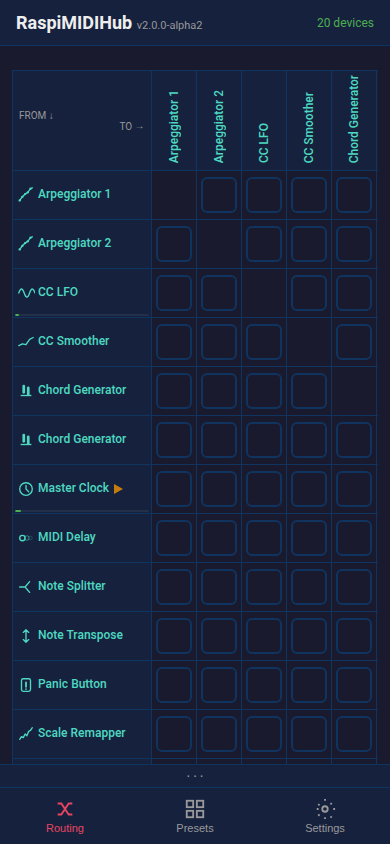
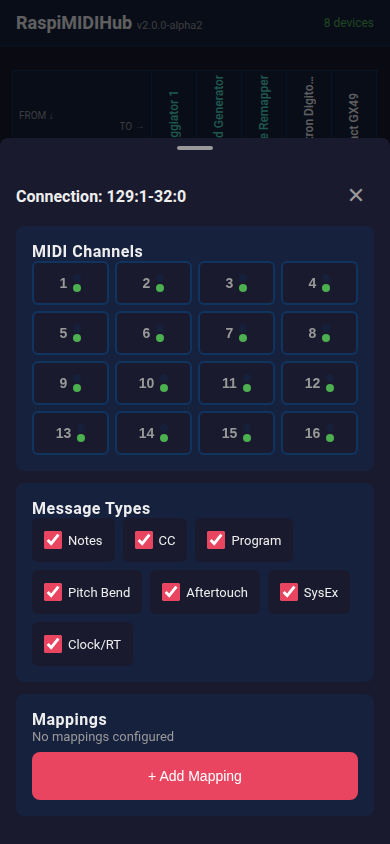
Refresh screenshots, update FSD with plugin system
- Filter panel + mapping screenshots working (use div.cb.on selector)
- Routing screenshot shows real stage setup
- Removed obsolete 03-devices.png
- FSD v2.1: added plugin system section (4.9), PWA section (4.10),
  updated architecture diagram, API endpoints, matrix features,
  presets, removed "no plugin system" non-goal

diff --git a/docs/FSD.md b/docs/FSD.md
@@ -1,8 +1,8 @@
 # RaspiMIDIHub — Functional Specification Document
 
-**Version:** 2.0
-**Date:** 2026-04-07
-**Status:** All phases implemented
+**Version:** 2.1
+**Date:** 2026-04-11
+**Status:** All phases implemented + Plugin System (v2.0)
 
 ---
 
@@ -16,11 +16,11 @@ RaspiMIDIHub turns a Raspberry Pi into a dedicated, appliance-like USB MIDI hub.
 - **Appliance reliability:** Read-only filesystem, no SD card wear, survives power cuts.
 - **Easy installation:** Single `.deb` package transforms a stock Raspberry Pi OS into a MIDI hub.
 - **Web UI:** Browser-based interface for custom MIDI routing, filtering, mapping, and device management.
+- **Virtual instruments:** Plugin system for MIDI processing (arpeggiator, LFO, delay, etc.) that appear as devices in the routing matrix.
 
 ### 1.2 Non-Goals
 
 - Not a DAW or audio interface.
-- Not a general-purpose MIDI processor (no scripting/plugin system).
 - Not a wireless MIDI bridge (USB only).
 
 ---
@@ -76,7 +76,9 @@ Delivered as a separate package (`raspimidihub-rosetup`):
 - Custom async HTTP server (stdlib `asyncio`, no framework dependencies).
 - REST API for all MIDI routing operations.
 - SPA frontend with Preact + htm (no build step, no npm).
-- Real-time updates via Server-Sent Events (SSE).
+- Real-time updates via Server-Sent Events (SSE) with 5s drain timeout.
+- 3-tab navigation: Routing, Presets, Settings.
+- Progressive Web App (PWA) with manifest + service worker for home screen install.
 - Accessible at `http://raspimidihub.local` (mDNS) on port 80.
 
 ### 4.2 Connection Matrix
@@ -87,7 +89,10 @@ Delivered as a separate package (`raspimidihub-rosetup`):
 - Purple cells indicate connections with active filters or mappings.
 - Offline devices shown grayed out with dimmed checkboxes for saved connections.
 - Clock indicator: pulsing play icon on devices sending MIDI clock, orange warning for multiple sources.
-- Device labels show custom names, tap for full name toast with original ALSA name.
+- Device icons: DIN MIDI connector for hardware, plugin-specific turquoise SVG for virtual devices.
+- Per-port MIDI rate meters (linear, green/yellow/red against 1000 msg/s DIN limit).
+- Tap device label to open device detail panel; long-press/right-click for name toast.
+- "Add" button at bottom of FROM list opens plugin browser.
 
 ### 4.3 MIDI Filtering (per-connection)
 
@@ -117,7 +122,8 @@ Delivered as a separate package (`raspimidihub-rosetup`):
 
 - Save/load named routing configurations.
 - Export/import presets as JSON files.
-- Presets include stable device IDs, filters, and mappings.
+- Presets include stable device IDs, filters, mappings, and plugin instances with params.
+- Overwrite confirmation dialog for existing presets.
 
 ### 4.7 Configuration Persistence
 
@@ -134,6 +140,27 @@ Delivered as a separate package (`raspimidihub-rosetup`):
 - Clock events filtered out (shown as matrix indicator instead).
 - Auto-expire: entries vanish after 2 seconds of inactivity.
 - Toggleable in Settings.
+
+### 4.9 Virtual Instruments (Plugin System)
+
+- Plugins are Python classes inheriting from `PluginBase`, discovered at startup from `plugins/` directory.
+- Each plugin instance runs in its own thread with a dedicated ALSA sequencer client (IN + OUT ports).
+- Plugins appear as devices in the routing matrix with turquoise icons.
+- Declarative UI: plugins declare params, framework renders Wheel, Fader, Radio, Toggle, StepEditor, CurveEditor, Button, NoteSelect, ChannelSelect, Group, Display (scope/meter).
+- CC automation: `cc_inputs` maps hardware CCs to plugin params; changes push to UI via SSE.
+- Clock bus: 24 PPQ counting with musical divisions (1/1 through 1/32 + triplets), auto-start, transport forwarding via tick queue + pipe wake-up.
+- Plugin sandbox: import validation (allowlist), callback watchdog (1s timeout), output rate limit (1000 events/sec).
+- Display outputs: plugins can push live values (oscilloscope, meter) via `set_display()`, rendered inline in config panel.
+- Transport API: `send_clock()`, `send_start()`, `send_stop()`, `send_continue()` + rawmidi fallback for DIN outputs.
+- Config persistence: plugin instances saved in config.json, included in presets and config export/import.
+- 12 built-in plugins: Arpeggiator (step sequencer + accents + transport sync), CC LFO, CC Smoother, Chord Generator, Master Clock, MIDI Delay, Note Splitter, Note Transpose, Panic Button, Scale Remapper, Velocity Curve, Velocity Equalizer.
+- Plugin developer conventions: `icon.svg` (20x20, currentColor), `HELP` text, `display_outputs`.
+
+### 4.10 Progressive Web App
+
+- Web app manifest + service worker for "Add to Home Screen" install.
+- Standalone display mode (no browser chrome).
+- Reload button in Settings for PWA mode.
 
 ---
 
@@ -196,7 +223,9 @@ Delivered as a separate package (`raspimidihub-rosetup`):
 |  |  |                 |<-|                    |  |  |
 |  |  |  - ALSA ctypes  |  |  - REST API        |  |  |
 |  |  |  - Filter engine|  |  - Static SPA      |  |  |
-|  |  |  - Hotplug      |  |  - SSE stream      |  |  |
+|  |  |  - Plugin host  |  |  - SSE stream      |  |  |
+|  |  |  - Clock bus    |  |  - Plugin API      |  |  |
+|  |  |  - Hotplug      |  |                    |  |  |
 |  |  |  - LED control  |  |                    |  |  |
 |  |  +---------+-------+  +--------------------+  |  |
 |  +------------+----------------------------------+  |
@@ -245,6 +274,13 @@ POST   /api/wifi/client               # Switch to client mode
 GET    /api/wifi/scan                  # Scan WiFi networks
 POST   /api/system/reboot             # Reboot
 GET    /api/events                     # SSE stream
+GET    /api/plugins                    # List available plugin types
+GET    /api/plugins/instances          # List running instances
+POST   /api/plugins/instances          # Create instance
+GET    /api/plugins/instances/{id}     # Instance config + params
+PATCH  /api/plugins/instances/{id}     # Update params
+DELETE /api/plugins/instances/{id}     # Stop and remove
+GET    /api/plugins/icon/{type}        # Plugin icon SVG
 ```
 
 ---
@@ -255,7 +291,7 @@ Two Debian packages:
 
 | Package | Purpose |
 |---------|---------|
-| `raspimidihub` | MIDI routing service + web UI + WiFi AP |
+| `raspimidihub` | MIDI routing service + plugin host + web UI + WiFi AP |
 | `raspimidihub-rosetup` | Read-only filesystem hardening (optional but recommended) |
 
 Dependencies: `libasound2`, `hostapd`, `dnsmasq`, `avahi-daemon`, `ntpsec`.
